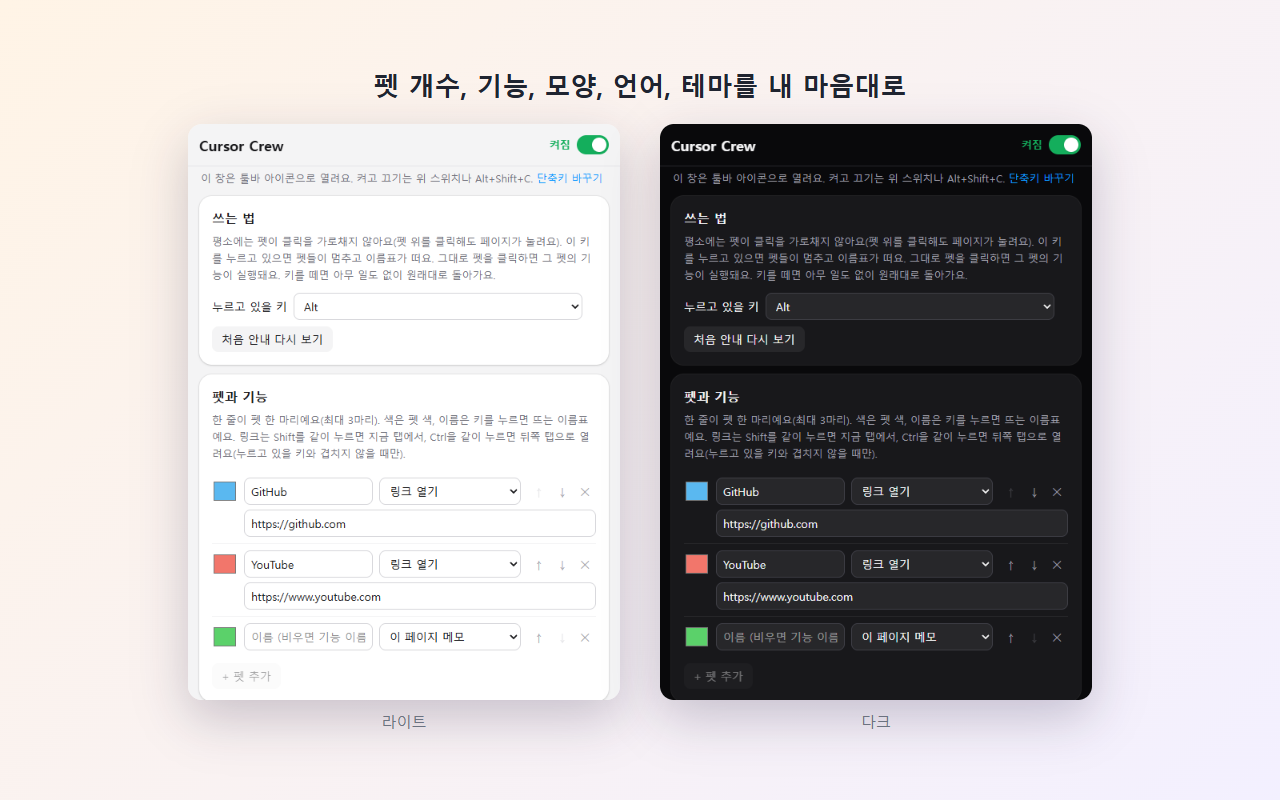
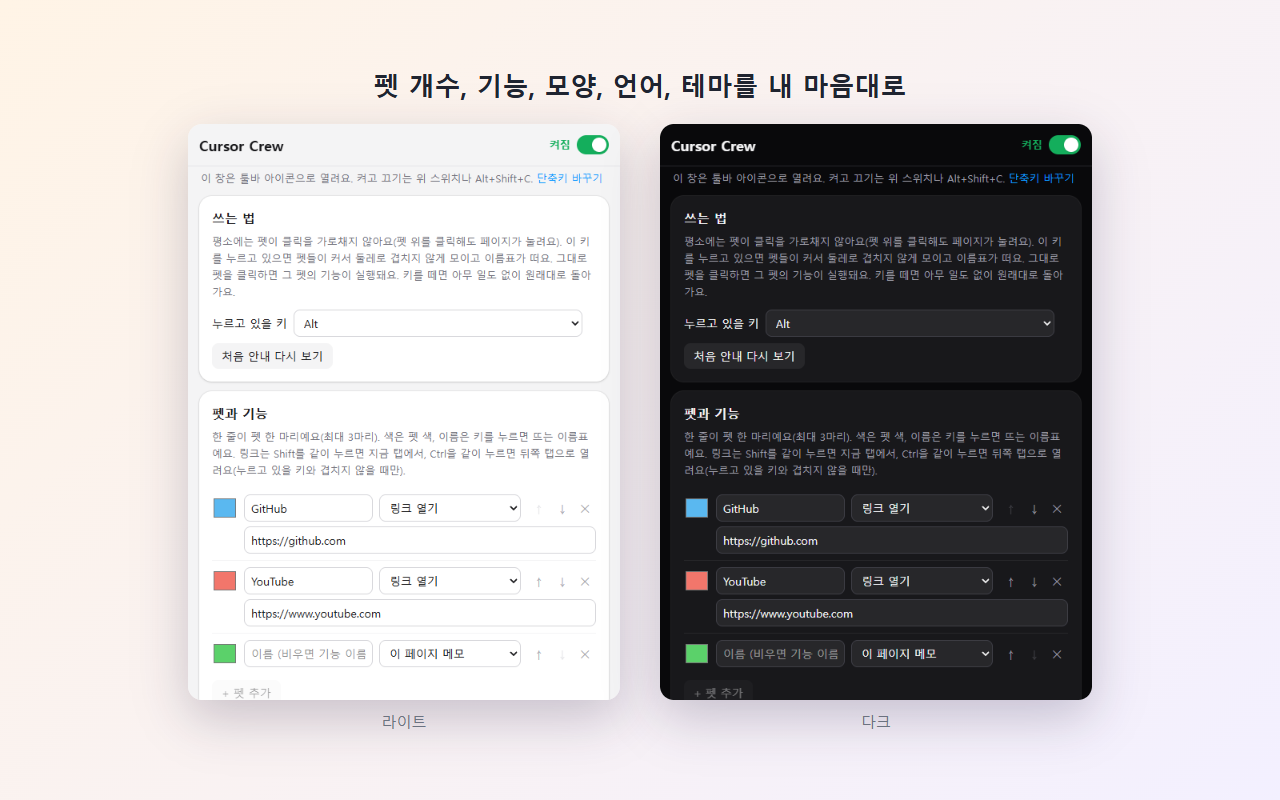
feat: 메뉴 키를 누르면 펫들이 커서 둘레로 겹치지 않게 모임
- 키를 누른 순간의 커서를 중심으로 위쪽 부채꼴(왼쪽 위·위·오른쪽 위)에 선다.
  화면 위쪽 끝이면 아래로, 왼쪽/오른쪽 끝이면 반대쪽으로 벌어지는 부채꼴.
- 이름표는 바깥쪽(왼쪽 펫은 왼쪽, 가운데는 위/아래)에, 화면 끝이면 한쪽으로 붙임.
- 키를 누르고 있는 동안 마우스를 움직여도 자리는 그대로(조준하기 쉽게).
- 문구·스토어 스크린샷 갱신.

Changed region(s): [[0.1562, 0.3125, 0.4688, 0.875], [0.5312, 0.3125, 0.8438, 0.875]]

diff --git a/src/pages/content/crew.ts b/src/pages/content/crew.ts
@@ -3,7 +3,7 @@
  *
  * 평소에는 펫이 클릭을 전혀 가로채지 않는다(pointer-events: none). 펫 위를 눌러도 아래 페이지가 눌린다.
  * 메뉴 키(기본 Alt, 설정에서 Ctrl·Shift·Alt+Shift)를 누르고 있는 동안만:
- *   - 펫이 제자리에 멈추고, 펫마다 기능 이름표가 뜬다.
+ *   - 펫들이 커서 둘레(기본 위쪽 부채꼴)의 정해진 자리로 모여 서로 겹치지 않게 서고, 펫마다 기능 이름표가 뜬다.
  *   - 펫을 클릭하면 그 펫의 기능이 바로 실행된다.
  * 키를 떼면 아무것도 실행하지 않고 원래대로 돌아간다(keyup 에서는 어떤 기능도 실행하지 않는다).
  * 메뉴 키를 누른 채 다른 키를 치면(단축키) 즉시 해제한다.
@@ -45,7 +45,12 @@ interface Pet {
   vy: number;
   k: number;
   held?: boolean;
+  /** 메뉴 키를 누르고 있는 동안 설 자리(커서 둘레) */
+  slot?: Point;
 }
+
+type Side = "up" | "down" | "left" | "right";
+const SIDES: Side[] = ["up", "down", "left", "right"];
 
 export interface CrewOptions {
   cfg: Settings;
@@ -184,11 +189,51 @@ export class Crew implements ActionHost {
     return { x: p.x + fx * (s * 0.6 + 16 + i * (s + 6)), y: fy > 0 ? p.y + s + 8 : p.y - 10 };
   }
 
-  private targetFor(pet: Pet, w: number): Point & { hold?: boolean } {
+  /**
+   * 메뉴 키를 누른 순간의 커서를 중심으로 펫들을 부채꼴로 벌려 세운다.
+   * 기본은 커서 위쪽(왼쪽 위 · 위 · 오른쪽 위), 화면 위쪽 끝이면 아래쪽으로 뒤집는다.
+   * 이름표는 바깥쪽(왼쪽 펫은 왼쪽, 가운데는 위/아래)에 붙여 서로 겹치지 않게 한다.
+   */
+  private spreadAround(at: Point) {
+    const s = this.size;
+    const n = Math.min(this.pets.length, 3);
+    const vw = document.documentElement.clientWidth;
+    const R = s * 1.25 + 22; // 커서에서 펫 가운데까지
+    const LABEL_W = 116; // 이름표 최대 폭 + 여백
+    const HALF = 58; // 위/아래 이름표 폭의 절반
+    // 기본: 위쪽 부채꼴(왼쪽 위 · 위 · 오른쪽 위). 왼쪽/오른쪽 끝이면 반대쪽으로 벌어지는 4분의 1 부채꼴
+    const WIDE: Record<number, number[]> = { 1: [-90], 2: [-130, -50], 3: [-150, -90, -30] };
+    const TOWARD_RIGHT: Record<number, number[]> = { 1: [-60], 2: [-80, -20], 3: [-90, -45, 0] };
+    const side = R * 0.87 + s * 0.6 + 8;
+    // 중심을 화면 안쪽으로 당겨 둔다: 끝에 있는 펫이 화면에 맞춰 밀리면서 이웃 펫과 겹치지 않게
+    at = { x: clamp(at.x, s * 0.6 + 4, vw - s * 0.6 - 4), y: clamp(at.y, s * 0.5 + 4, innerHeight - s * 0.5 - 4) };
+    let angles = WIDE[n] || [];
+    if (at.x < side) angles = TOWARD_RIGHT[n];
+    else if (at.x > vw - side) angles = TOWARD_RIGHT[n].map((a) => -180 - a).reverse();
+    const flip = at.y - R - s / 2 - 34 < 0; // 위쪽에 자리가 없으면 아래로
+    if (flip) angles = angles.map((a) => -a);
+    this.pets.forEach((pet, i) => {
+      const rad = ((angles[i] ?? -90) * Math.PI) / 180;
+      const cx = clamp(at.x + Math.cos(rad) * R, s * 0.6 + 4, vw - s * 0.6 - 4);
+      const cy = clamp(at.y + Math.sin(rad) * R, s * 0.5 + 4, innerHeight - s * 0.5 - 4);
+      pet.slot = { x: cx, y: cy + s / 2 }; // pet.x·y 는 발밑 기준
+      const c = Math.cos(rad);
+      let where: Side = flip ? "down" : "up";
+      if (c < -0.5 && cx - s * 0.6 - LABEL_W > 0) where = "left";
+      else if (c > 0.5 && cx + s * 0.6 + LABEL_W < vw) where = "right";
+      for (const k of SIDES) pet.el.classList.toggle("side-" + k, k === where);
+      // 위/아래 이름표가 화면 끝에 걸리면 펫 가장자리에 맞춰 한쪽으로 붙인다
+      const vertical = where === "up" || where === "down";
+      pet.el.classList.toggle("al-start", vertical && cx - HALF < 0);
+      pet.el.classList.toggle("al-end", vertical && cx + HALF > vw);
+    });
+  }
+
+  private targetFor(pet: Pet, w: number): Point & { hold?: boolean; k?: number } {
     const s = this.size;
     const mouse = this.mouse!;
-    // 메뉴 키를 누르고 있는 동안은 제자리에 멈춘다(클릭할 수 있게)
-    if (this.armed) return { x: pet.x, y: pet.y, hold: true };
+    // 메뉴 키를 누르고 있는 동안은 커서 둘레의 제 자리로 빠르게 모인다(클릭할 수 있게). 마우스를 움직여도 자리는 그대로
+    if (this.armed) return pet.slot ? { x: pet.slot.x, y: pet.slot.y, k: 260 } : { x: pet.x, y: pet.y, hold: true };
     // 마우스가 천천히 다가오거나 바로 위에 오면 도망가지 않고 그 자리에 멈춘다.
     // 빠르게 지나가는 건 이동으로 보고 그냥 따라간다. 충분히 멀어지면 다시 따라간다.
     const dx = pet.x - mouse.x;
@@ -258,6 +303,7 @@ export class Crew implements ActionHost {
 
   private arm() {
     this.armed = true;
+    if (this.mouse) this.spreadAround(this.mouse);
     this.root.classList.add("armed");
     this.dismissHint();
   }
@@ -265,6 +311,12 @@ export class Crew implements ActionHost {
     if (!this.armed) return;
     this.armed = false;
     this.root.classList.remove("armed");
+    for (const pet of this.pets) {
+      pet.slot = undefined;
+      pet.held = true; // 키를 떼면 그 자리에서 잠깐 쉬다가, 마우스가 멀어지면 다시 따라간다
+      for (const k of SIDES) pet.el.classList.remove("side-" + k);
+      pet.el.classList.remove("al-start", "al-end");
+    }
     if (this.hot) {
       this.hot.el.classList.remove("hot");
       this.hot = null;
@@ -367,8 +419,8 @@ export class Crew implements ActionHost {
     const idle = still > 900 && !this.armed;
     for (const pet of this.pets) {
       const tg = this.targetFor(pet, w);
-      const k = tg.hold ? 0 : pet.k;
-      const c = tg.hold ? 18 : 2 * Math.sqrt(k) * 0.8; // 멈출 땐 브레이크만
+      const k = tg.hold ? 0 : (tg.k ?? pet.k);
+      const c = tg.hold ? 18 : 2 * Math.sqrt(k) * (tg.k ? 1 : 0.8); // 멈출 땐 브레이크만, 자리로 모일 땐 튕기지 않게
       let ax = (tg.x - pet.x) * k - pet.vx * c;
       let ay = (tg.y - pet.y) * k - pet.vy * c;
       // 서로 겹치지 않게 밀어낸다(멈춰 있는 펫끼리도)

diff --git a/src/shared/i18n.ts b/src/shared/i18n.ts
@@ -78,7 +78,7 @@ const ko = {
   "opt.opacity": "평소 투명도",
 
   "opt.openMenu": "쓰는 법",
-  "opt.openMenuHelp": "평소에는 펫이 클릭을 가로채지 않아요(펫 위를 클릭해도 페이지가 눌려요). 이 키를 누르고 있으면 펫들이 멈추고 이름표가 떠요. 그대로 펫을 클릭하면 그 펫의 기능이 실행돼요. 키를 떼면 아무 일도 없이 원래대로 돌아가요.",
+  "opt.openMenuHelp": "평소에는 펫이 클릭을 가로채지 않아요(펫 위를 클릭해도 페이지가 눌려요). 이 키를 누르고 있으면 펫들이 커서 둘레로 겹치지 않게 모이고 이름표가 떠요. 그대로 펫을 클릭하면 그 펫의 기능이 실행돼요. 키를 떼면 아무 일도 없이 원래대로 돌아가요.",
   "opt.menuKey": "누르고 있을 키",
   "opt.keyAltShiftNote": "Alt+Shift (윈도우 입력 언어 전환과 겹칠 수 있어요)",
   "opt.hintAgain": "처음 안내 다시 보기",
@@ -184,7 +184,7 @@ const en: Dict = {
   "opt.opacity": "Opacity",
 
   "opt.openMenu": "How to use",
-  "opt.openMenuHelp": "Pets never catch your clicks (clicking on one clicks the page underneath). Hold this key and the pets stop and show name tags; click a pet to run its action. Releasing the key does nothing and puts everything back.",
+  "opt.openMenuHelp": "Pets never catch your clicks (clicking on one clicks the page underneath). Hold this key and the pets gather around your cursor without overlapping and show name tags; click a pet to run its action. Releasing the key does nothing and puts everything back.",
   "opt.menuKey": "Key to hold",
   "opt.keyAltShiftNote": "Alt+Shift (may clash with the Windows input language switch)",
   "opt.hintAgain": "Show the first-time tip again",

diff --git a/src/pages/content/styles.ts b/src/pages/content/styles.ts
@@ -28,6 +28,13 @@ export const CSS = `
 .label span:last-child{overflow:hidden;text-overflow:ellipsis}
 .label.above{top:calc(var(--s) * -1 - 26px)}
 .label.below{top:8px}
+/* 메뉴 키를 누르고 펫이 커서 둘레로 모였을 때: 이름표를 바깥쪽에 */
+.pet.side-up .label{top:calc(var(--s) * -1 - 26px)}
+.pet.side-down .label{top:8px}
+.pet.side-left .label{top:calc(var(--s) * -0.5 - 10px);left:calc(var(--s) * -0.55 - 6px);transform:translateX(-100%)}
+.pet.side-right .label{top:calc(var(--s) * -0.5 - 10px);left:calc(var(--s) * 0.55 + 6px);transform:none}
+.pet.al-start .label{left:calc(var(--s) * -0.55);transform:none}
+.pet.al-end .label{left:calc(var(--s) * 0.55);transform:translateX(-100%)}
 .ldot{width:7px;height:7px;border-radius:50%;flex:none}
 .root.armed:not(.dim):not(.hide) .label{opacity:1;visibility:visible;transition:opacity .12s .08s,visibility 0s .08s}
 .root.armed .pet.hot .label{background:var(--glow);color:#fff}

diff --git a/README.md b/README.md
@@ -8,7 +8,7 @@
 ```
  ↖ (내 마우스)          Alt 를 누르고 있는 동안
                         ┌ GitHub ┐       ┌ 메모 ┐
-   ▄▄  ▄▄  ▄▄            ▄▄  ▄▄  ▄▄       ← 펫이 멈추고 이름표가 뜸
+   ▄▄  ▄▄  ▄▄            ▄▄  ▄▄  ▄▄       ← 펫이 커서 둘레로 모이고 이름표가 뜸
   █••█ █••█ █••█        █••█ █••█ █••█       그대로 펫을 클릭 = 실행
                             └ YouTube ┘
 ```
@@ -62,7 +62,7 @@ pnpm build
 - **따라다니기**: 마우스를 움직이면 펫들이 줄지어 마우스 뒤쪽으로 처지며 통통 따라오고, 멈추면 마우스 오른쪽 아래(화면 끝이면 반대쪽)에 나란히 앉습니다. 오래 쉬고 있으면 머리 위가 가끔 반짝입니다.
 - **평소에는 투명 인간**: 펫은 클릭·호버를 가로채지 않습니다(`pointer-events: none`). 펫 위를 클릭하면 그 아래 링크·버튼이 눌리고, 커서 모양도 바뀌지 않습니다.
 - **쓰기: <kbd>Alt</kbd>를 누른 채 펫 클릭**
-  1. <kbd>Alt</kbd>(설정에서 바꿀 수 있음)를 누르고 있으면 펫들이 제자리에 멈추고, 펫마다 기능 이름표가 뜹니다. 이때만 펫이 클릭됩니다.
+  1. <kbd>Alt</kbd>(설정에서 바꿀 수 있음)를 누르고 있으면 펫들이 커서 둘레(위쪽 부채꼴, 화면 끝이면 반대쪽)로 서로 겹치지 않게 모이고, 펫마다 바깥쪽에 기능 이름표가 뜹니다. 마우스를 움직여도 자리는 그대로라 조준하기 쉽습니다. 이때만 펫이 클릭됩니다.
   2. 키를 누른 채 펫을 클릭하면 그 펫의 기능이 바로 실행되고, 펫 위에 짧은 말풍선으로 결과를 알려 줍니다.
   3. 키를 떼면 아무것도 실행되지 않고 원래대로 돌아갑니다.
   4. 키를 누른 채 다른 키를 치면(예: <kbd>Alt</kbd>+<kbd>←</kbd>) 단축키로 보고 바로 풀립니다.
@@ -80,7 +80,7 @@ pnpm build
 ### How to use (English)
 
 - Small pixel pets follow your mouse. **Each pet does one thing** (a link, a page memo, copy URL, back to top), and they **never catch clicks**: clicking on a pet clicks whatever is underneath.
-- **Hold Alt and click a pet** to run its action. While you hold the key the pets stop and show name tags; that's the only time they can be clicked.
+- **Hold Alt and click a pet** to run its action. While you hold the key the pets fan out around your cursor without overlapping and show name tags; that's the only time they can be clicked.
 - **Releasing the key does nothing**: it just puts the pets back. Pressing another key with it (e.g. Alt+←) cancels right away.
 - The key can be Alt, Ctrl, Shift or Alt+Shift (settings → **How to use**). Alt+Shift may clash with the Windows input language switch.
 - Browser defaults such as Alt+click (download) or Ctrl+click (new tab) are blocked only when you click a pet while holding the key. If no pet is on screen or the extension is off, the key is left alone.

diff --git a/store/LISTING.md b/store/LISTING.md
@@ -22,7 +22,7 @@
 
 ■ 이렇게 써요
 • 마우스를 움직이면 펫이 따라와요. 평소에는 클릭이 펫을 통과해서 페이지 사용을 방해하지 않아요.
-• Alt를 누르고 있으면 펫이 멈추고 각 펫이 하는 일이 보여요. 그 상태로 펫을 클릭하면 실행돼요.
+• Alt를 누르고 있으면 펫들이 커서 둘레로 겹치지 않게 모이고, 각 펫이 하는 일이 보여요. 그 상태로 펫을 클릭하면 실행돼요.
 • Alt를 그냥 떼면 아무 일도 일어나지 않아요.
 • 켜기/끄기: Alt+Shift+C 또는 툴바 아이콘 → 설정 창 맨 위 스위치
 
@@ -50,7 +50,7 @@ Each pet holds one shortcut: hold Alt and click a pet to run it.
 
 ■ How it works
 • Move your mouse and the pets follow. Normally clicks pass straight through them, so they never get in your way.
-• Hold Alt and the pets stop and show what each one does. Click a pet while holding Alt to run it.
+• Hold Alt and the pets fan out around your cursor, never overlapping, and show what each one does. Click a pet while holding Alt to run it.
 • Just letting go of Alt does nothing.
 • On/off: Alt+Shift+C, or the toolbar icon → switch at the top of the settings window
 
@@ -146,7 +146,7 @@ The pets are drawn by a content script so they can follow the mouse on every pag
 ```
 No account or login needed.
 1. Open any normal web page (e.g. https://example.com) and move the mouse: a small slime follows the cursor.
-2. Hold Alt: the pets stop and show labels. While holding Alt, click a pet to run its action (default pets: GitHub link, YouTube link, page memo).
+2. Hold Alt: the pets gather around the cursor and show labels. While holding Alt, click a pet to run its action (default pets: GitHub link, YouTube link, page memo).
 3. Click the toolbar icon to open the settings window (pets, skins, menu key, language, theme, on/off switch).
 4. Alt+Shift+C toggles the extension on and off.
 ```
